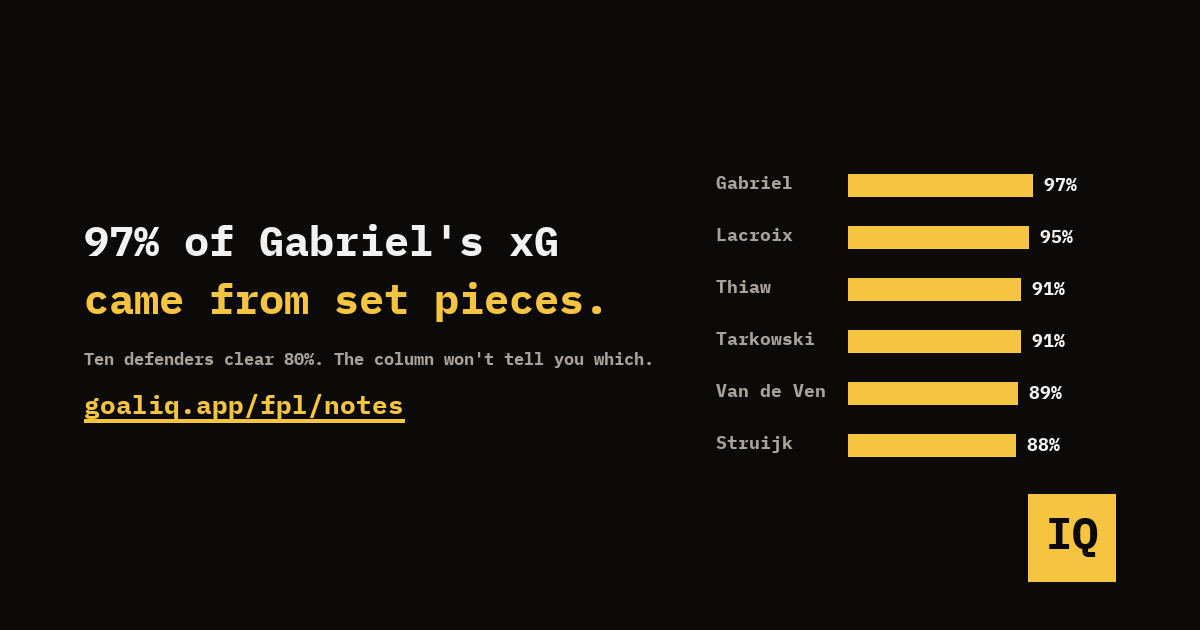
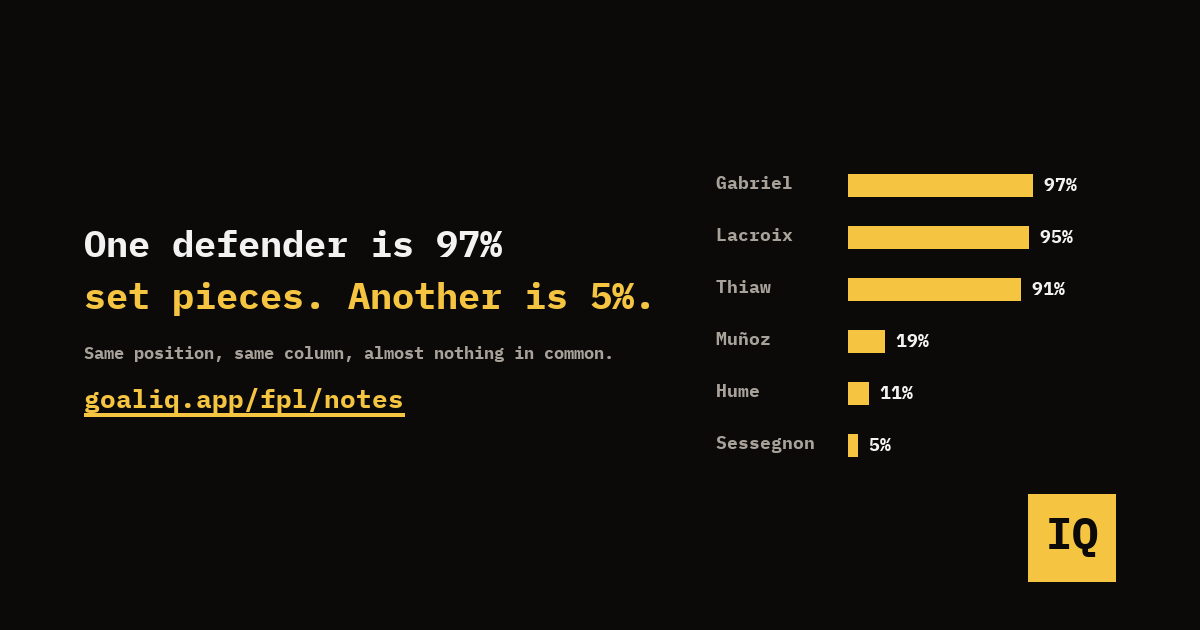
content(fpl): artikkeli uudelleen kehystetty hajonnan ympärille
Villen huomio: "eiko toi ole aika itsestaanselvyys etta topparin xG
muodostuu erikoistilanteista". Han oli oikeassa, ja mittasin sen:

  23 puolustajaa npxG >= 2.0
  yli 80 %:  10   50-80 %:  7   alle 50 %:  6
  matalimmat: Sessegnon 5 %, Hume 11 %, Munoz 19 %, O'Reilly 22 %

Ei-ilmeinen loydos ei siis ole etta erikoistilanteet dominoivat vaan ETTEI
SE OLE POSITION OMINAISUUS: liigan karkipuolustaja npxG:lla (O'Reilly 6.73)
saa siita vain 22 %. Vanha versio otsikoi ilmeisen ja hautasi taman yhteen
sivulauseeseen. Uusi kaantaa sen: kaksi taulukkoa, molemmat paat.

Kirjoitin ensin "with very little in between" ja tarkistin sen omasta
mittauksestani ennen porttia: seitseman 23:sta on valilla 50-80 %, joten
vaite oli liioittelu. Korjattu ennen julkaisua.

OG-kortti nayttaa nyt kolme ylinta JA kolme alinta. Ensimmainen versio
naytti kuusi ylinta (88-97 %) eli kuusi lahes identtista palkkia — se kertoi
tasan sen ilmeisen osan ja piilotti hajonnan.

fpl.html-takuulisays siirretty generaattoriin: sivu on GENEROITU ja
uudelleenajo pyyhki kasin tehdyn muutoksen. Oma takuuportti nappasi sen.

check_claim_route: 33 vaitetta, 0 puuttuvaa. Koko sarja 1216 lapi.

Claude-Session: https://claude.ai/code/session_01R3GBXnosnYnVuLUdwcsMFo

diff --git a/fpl/notes.html b/fpl/notes.html
@@ -4,11 +4,11 @@
 <meta charset="UTF-8" />
 <meta name="viewport" content="width=device-width, initial-scale=1.0" />
 <title>FPL notes from the model | GoalIQ</title>
-<meta name="description" content="Short gameweek notes where every number comes from our own match model and every one of them is on a free page you can open. Latest: Most centre-back xG is set-piece xG, and the column won&#x27;t tell you" />
+<meta name="description" content="Short gameweek notes where every number comes from our own match model and every one of them is on a free page you can open. Latest: Defender xG comes in two kinds, and the column doesn&#x27;t say which" />
 <link rel="canonical" href="https://goaliq.app/fpl/notes" />
 <meta property="og:type" content="article">
 <meta property="og:title" content="FPL notes from the model | GoalIQ">
-<meta property="og:description" content="Short gameweek notes where every number comes from our own match model and every one of them is on a free page you can open. Latest: Most centre-back xG is set-piece xG, and the column won&#x27;t tell you">
+<meta property="og:description" content="Short gameweek notes where every number comes from our own match model and every one of them is on a free page you can open. Latest: Defender xG comes in two kinds, and the column doesn&#x27;t say which">
 <meta property="og:url" content="https://goaliq.app/fpl/notes">
 <meta property="og:image" content="https://goaliq.app/assets/brand/og/notes-1200x630.png">
 <meta property="og:image:width" content="1200">
@@ -17,7 +17,7 @@
 <meta name="twitter:card" content="summary_large_image">
 <meta name="twitter:site" content="@goaliqapp">
 <meta name="twitter:title" content="FPL notes from the model | GoalIQ">
-<meta name="twitter:description" content="Short gameweek notes where every number comes from our own match model and every one of them is on a free page you can open. Latest: Most centre-back xG is set-piece xG, and the column won&#x27;t tell you">
+<meta name="twitter:description" content="Short gameweek notes where every number comes from our own match model and every one of them is on a free page you can open. Latest: Defender xG comes in two kinds, and the column doesn&#x27;t say which">
 <meta name="twitter:image" content="https://goaliq.app/assets/brand/og/notes-1200x630.png">
 <link rel="icon" href="/favicon.ico" sizes="any">
 <link rel="icon" type="image/png" sizes="32x32" href="/assets/brand/goaliq-favicon-32.png">
@@ -34,7 +34,7 @@
  "@type": "WebPage",
  "name": "FPL notes from the model | GoalIQ",
  "url": "https://goaliq.app/fpl/notes",
- "description": "Short gameweek notes where every number comes from our own match model and every one of them is on a free page you can open. Latest: Most centre-back xG is set-piece xG, and the column won't tell you",
+ "description": "Short gameweek notes where every number comes from our own match model and every one of them is on a free page you can open. Latest: Defender xG comes in two kinds, and the column doesn't say which",
  "isPartOf": {
   "@id": "https://goaliq.app/#organization"
  },
@@ -265,7 +265,7 @@ border-bottom:1px solid var(--line);padding-bottom:1px;}
 </div>
 </header>
 <main class="wrap content">
-<h2 id="set-piece-xg-is-not-open-play-xg">Most centre-back xG is set-piece xG, and the column won&#x27;t tell you</h2><p class="note">2026-08-15</p><div class="note-body"><p>Gabriel finished last season on 4.65 non-penalty xG. 4.50 of it came from set pieces. Ninety-seven percent, the highest share of anyone in the sample.</p><p>He&#x27;s not a quirk. Lacroix was at 95%, Thiaw at 91%, and ten players cleared 80%.</p><p>The rest of the league looks nothing like that. Across the 142 players with at least 2.0 non-penalty xG, the median set-piece share is 15%. Haaland sits at 10%, Mbeumo at 2%. There&#x27;s no gentle slope running from strikers down to defenders. Two different things are sharing a column heading.</p><p>Being a defender isn&#x27;t enough on its own, either. O&#x27;Reilly has the highest non-penalty xG of any defender in the sample, 6.73, and 22% of it is set pieces.</p><p>The clearest cases, with non-penalty xG and the set-piece part of it:</p><div class="tblwrap"><table class="note-tbl"><thead><tr><th>Player</th><th>npxG</th><th>Set-piece xG</th><th>Share</th></tr></thead><tbody><tr><td>Gabriel</td><td>4.65</td><td>4.50</td><td>97%</td></tr><tr><td>Lacroix</td><td>3.01</td><td>2.86</td><td>95%</td></tr><tr><td>Thiaw</td><td>5.90</td><td>5.38</td><td>91%</td></tr><tr><td>Tarkowski</td><td>2.87</td><td>2.61</td><td>91%</td></tr><tr><td>Van de Ven</td><td>2.45</td><td>2.17</td><td>89%</td></tr><tr><td>Struijk</td><td>2.97</td><td>2.62</td><td>88%</td></tr><tr><td>Collins</td><td>2.92</td><td>2.46</td><td>84%</td></tr><tr><td>Van Hecke</td><td>3.36</td><td>2.82</td><td>84%</td></tr><tr><td>Virgil</td><td>4.89</td><td>3.97</td><td>81%</td></tr><tr><td>Van den Berg</td><td>3.33</td><td>2.70</td><td>81%</td></tr></tbody></table></div><h3>Why it matters</h3><p>xG gets treated as one currency. You compare two players, the higher number wins, and for most of the league that&#x27;s fine, because both numbers are made of the same stuff.</p><p>For the defenders above the number comes from somewhere else. It depends on how many set pieces the team wins and on who is delivering them. Neither of those moves with the things that normally move a team&#x27;s attack.</p><p>Take a club that sells its main striker. Open-play creation drops and the rating should drop with it. But the number of set pieces barely changes, and the centre-back who scores off them keeps scoring as long as the delivery is still there.</p><h3>How I&#x27;d use it</h3><p>If you&#x27;re comparing two defenders on xG, look at what the xG is made of before you trust the gap. A 3.0 that&#x27;s 90% set pieces and a 3.0 that&#x27;s 30% set pieces are different bets, and the second one is closer to a normal attacking return.</p><p>And if a club changes who takes its corners, that&#x27;s the transfer that should worry you about a set-piece defender, more than the striker leaving. The same view on the stats page lists the corner and free-kick taker order, so you can check who is on them now. I don&#x27;t have a clean number for how much delivery quality matters, and I&#x27;d rather say that than invent one.</p><h3>What this doesn&#x27;t show</h3><p>The shot data is 2025/26, not the season about to start. Some of the shares sit on thin samples: Van de Ven&#x27;s 89% comes off 2.45 npxG, which is about two goals&#x27; worth of chances, and I wouldn&#x27;t lean on it the way I&#x27;d lean on Gabriel&#x27;s 4.65.</p><p>Set-piece xG isn&#x27;t immune to squad change either, it just doesn&#x27;t respond to the same inputs. A manager who stops loading the box would flatten these numbers quickly.</p><p>Set piece here means corners and free kicks, not corners alone. The column doesn&#x27;t split them, so I&#x27;m not going to guess at the split either.</p><p>And none of it says whether a player is good. Gabriel at 97% is one of the better attacking defenders in the league, and set-piece goals count the same as any other. The problem is that they run on a different engine, so anything that treats the two as one number will be wrong in a direction you can predict.</p><p>Both columns are on our free stats page, no sign-in, but they sit in different views. Easiest route: type the name into &quot;Search player&quot;, then switch between &quot;Goal threat&quot; for npxG and &quot;Set pieces&quot; for Set-piece xG. If you want to sort the whole list instead, press &quot;Show all players&quot; first, because the table opens on the top 100 and four of the names above sit outside it on npxG. Basis is 2025/26, 400 players in this season&#x27;s FPL squads.</p></div><p><a href="https://goaliq.app/fpl/stats">Open the stats page and check any of these</a>.</p><div class="share"><span>Share</span><a href="https://twitter.com/intent/tweet?text=Most%20centre-back%20xG%20is%20set-piece%20xG%2C%20and%20the%20column%20won%27t%20tell%20you%0A%0Ahttps%3A//goaliq.app/fpl/notes%23set-piece-xg-is-not-open-play-xg" rel="noopener nofollow" target="_blank">X</a><a href="https://bsky.app/intent/compose?text=Most%20centre-back%20xG%20is%20set-piece%20xG%2C%20and%20the%20column%20won%27t%20tell%20you%0A%0Ahttps%3A//goaliq.app/fpl/notes%23set-piece-xg-is-not-open-play-xg" rel="noopener nofollow" target="_blank">Bluesky</a><a href="https://goaliq.app/fpl/notes#set-piece-xg-is-not-open-play-xg">Link</a></div><h2 id="gw1-team-news-75-percent-flag">GW1 team news: a 75% flag is not a sell signal</h2><p class="note">2026-08-15</p><div class="note-body"><p>61 players are ruled out for the GW1 deadline and 15 are doubtful. Only two of the doubtful are owned by more than 1%, so most of that list isn&#x27;t your problem.</p><p>Mukiele is the one I&#x27;d look at. FPL has him 75% to play, 4.3% own him, and he&#x27;s still the best six-gameweek projection on the entire doubtful list at 17.0, with the 75% already taken out of the number. The flag costs him less than the panic around it does.</p><p>Šeško is the other one over 1%. Same 75%, 2.1% owned, 11.3.</p><p>Kroupi is the most owned player who can&#x27;t play at all, and Bournemouth&#x27;s cover for him is Tavernier on 26.1. I&#x27;d move him and stop reading about it.</p></div><p><a href="https://goaliq.app/fpl/team-news">Full list, free, no sign-in</a>.</p><div class="share"><span>Share</span><a href="https://twitter.com/intent/tweet?text=GW1%20team%20news%3A%20a%2075%25%20flag%20is%20not%20a%20sell%20signal%0A%0Ahttps%3A//goaliq.app/fpl/notes%23gw1-team-news-75-percent-flag" rel="noopener nofollow" target="_blank">X</a><a href="https://bsky.app/intent/compose?text=GW1%20team%20news%3A%20a%2075%25%20flag%20is%20not%20a%20sell%20signal%0A%0Ahttps%3A//goaliq.app/fpl/notes%23gw1-team-news-75-percent-flag" rel="noopener nofollow" target="_blank">Bluesky</a><a href="https://goaliq.app/fpl/notes#gw1-team-news-75-percent-flag">Link</a></div><div class="rec">Powered by the GoalIQ match model with a published, pre-match-logged track record. The full toolkit (captain ranker, all differentials, transfer planner) is <a href="https://pro.goaliq.app/?tab=premium">GoalIQ Premium</a>: 3.99 €/month or 25 €/season. One subscription on web, iOS and Android.</div><div class="cta-row"><a class="btn" href="https://pro.goaliq.app/?tab=premium">Open GoalIQ Premium</a><a class="btn ghost" href="/fpl.html">Free clean-sheet probability &amp; FDR</a></div><p class="note">Updated 15 Aug 2026 · GoalIQ model predictions are statistical estimates for fun and analysis, not betting advice, and not a gambling service.</p>
+<h2 id="set-piece-xg-is-not-open-play-xg">Defender xG comes in two kinds, and the column doesn&#x27;t say which</h2><p class="note">2026-08-15</p><div class="note-body"><p>Everyone knows a centre-back&#x27;s goals come from corners. That part isn&#x27;t interesting. What surprised me is how badly it works as a rule.</p><p>Gabriel finished last season on 4.65 non-penalty xG and 4.50 of it was set pieces. Ninety-seven percent. Sessegnon finished on 2.05 with 0.11 from set pieces. Five percent. Same position, same column, almost nothing in common.</p><p>Take the 23 defenders with at least 2.0 non-penalty xG. Ten are above 80% set pieces, six are below 50%, and the other seven are scattered across the middle. There&#x27;s no typical number to fall back on, which is the problem: the column gives you one figure and it can mean either thing.</p><p>The best attacking defender in the sample is in the wrong group for the stereotype. O&#x27;Reilly has the highest non-penalty xG of any defender, 6.73, and only 22% of it comes from set pieces.</p><h3>The set-piece end</h3><div class="tblwrap"><table class="note-tbl"><thead><tr><th>Player</th><th>npxG</th><th>Set-piece xG</th><th>Share</th></tr></thead><tbody><tr><td>Gabriel</td><td>4.65</td><td>4.50</td><td>97%</td></tr><tr><td>Lacroix</td><td>3.01</td><td>2.86</td><td>95%</td></tr><tr><td>Thiaw</td><td>5.90</td><td>5.38</td><td>91%</td></tr><tr><td>Tarkowski</td><td>2.87</td><td>2.61</td><td>91%</td></tr><tr><td>Van de Ven</td><td>2.45</td><td>2.17</td><td>89%</td></tr><tr><td>Struijk</td><td>2.97</td><td>2.62</td><td>88%</td></tr></tbody></table></div><h3>The open-play end</h3><div class="tblwrap"><table class="note-tbl"><thead><tr><th>Player</th><th>npxG</th><th>Set-piece xG</th><th>Share</th></tr></thead><tbody><tr><td>Dalot</td><td>2.19</td><td>0.87</td><td>40%</td></tr><tr><td>O&#x27;Reilly</td><td>6.73</td><td>1.45</td><td>22%</td></tr><tr><td>Muñoz</td><td>3.15</td><td>0.61</td><td>19%</td></tr><tr><td>Hume</td><td>2.71</td><td>0.31</td><td>11%</td></tr><tr><td>Sessegnon</td><td>2.05</td><td>0.11</td><td>5%</td></tr></tbody></table></div><h3>Why it matters</h3><p>xG gets treated as one currency. You compare two players, the higher number wins, and for most of the league that&#x27;s fine, because both numbers are made of the same stuff.</p><p>For the defenders at the top of that first table the number comes from somewhere else. It depends on how many set pieces the team wins and on who is delivering them. Neither of those moves with the things that normally move a team&#x27;s attack.</p><p>Take a club that sells its main striker. Open-play creation drops and the rating should drop with it. But the number of set pieces barely changes, and the centre-back who scores off them keeps scoring as long as the delivery is still there.</p><h3>How I&#x27;d use it</h3><p>If you&#x27;re comparing two defenders on xG, look at what the xG is made of before you trust the gap. A 3.0 that&#x27;s 90% set pieces and a 3.0 that&#x27;s 30% set pieces are different bets, and the second one is closer to a normal attacking return.</p><p>And if a club changes who takes its corners, that&#x27;s the transfer that should worry you about a set-piece defender, more than the striker leaving. The same view on the stats page lists the corner and free-kick taker order, so you can check who is on them now. I don&#x27;t have a clean number for how much delivery quality matters, and I&#x27;d rather say that than invent one.</p><h3>What this doesn&#x27;t show</h3><p>The shot data is 2025/26, not the season about to start. Some of the shares sit on thin samples: Van de Ven&#x27;s 89% comes off 2.45 npxG, which is about two goals&#x27; worth of chances, and I wouldn&#x27;t lean on it the way I&#x27;d lean on Gabriel&#x27;s 4.65.</p><p>Set-piece xG isn&#x27;t immune to squad change either, it just doesn&#x27;t respond to the same inputs. A manager who stops loading the box would flatten these numbers quickly.</p><p>Set piece here means corners and free kicks, not corners alone. The column doesn&#x27;t split them, so I&#x27;m not going to guess at the split either.</p><p>And none of it says whether a player is good. Gabriel at 97% is one of the better attacking defenders in the league, and set-piece goals count the same as any other. The problem is that they run on a different engine, so anything that treats the two as one number will be wrong in a direction you can predict.</p><p>Both columns are on our free stats page, no sign-in, but they sit in different views. Easiest route: type the name into &quot;Search player&quot;, then switch between &quot;Goal threat&quot; for npxG and &quot;Set pieces&quot; for Set-piece xG. If you want to sort the whole list instead, press &quot;Show all players&quot; first, because the table opens on the top 100 and several of the names above sit outside it on npxG. Basis is 2025/26, 400 players in this season&#x27;s FPL squads.</p><p>goaliq.app/fpl/stats</p></div><p><a href="https://goaliq.app/fpl/stats">Open the stats page and check any of these</a>.</p><div class="share"><span>Share</span><a href="https://twitter.com/intent/tweet?text=Defender%20xG%20comes%20in%20two%20kinds%2C%20and%20the%20column%20doesn%27t%20say%20which%0A%0Ahttps%3A//goaliq.app/fpl/notes%23set-piece-xg-is-not-open-play-xg" rel="noopener nofollow" target="_blank">X</a><a href="https://bsky.app/intent/compose?text=Defender%20xG%20comes%20in%20two%20kinds%2C%20and%20the%20column%20doesn%27t%20say%20which%0A%0Ahttps%3A//goaliq.app/fpl/notes%23set-piece-xg-is-not-open-play-xg" rel="noopener nofollow" target="_blank">Bluesky</a><a href="https://goaliq.app/fpl/notes#set-piece-xg-is-not-open-play-xg">Link</a></div><h2 id="gw1-team-news-75-percent-flag">GW1 team news: a 75% flag is not a sell signal</h2><p class="note">2026-08-15</p><div class="note-body"><p>61 players are ruled out for the GW1 deadline and 15 are doubtful. Only two of the doubtful are owned by more than 1%, so most of that list isn&#x27;t your problem.</p><p>Mukiele is the one I&#x27;d look at. FPL has him 75% to play, 4.3% own him, and he&#x27;s still the best six-gameweek projection on the entire doubtful list at 17.0, with the 75% already taken out of the number. The flag costs him less than the panic around it does.</p><p>Šeško is the other one over 1%. Same 75%, 2.1% owned, 11.3.</p><p>Kroupi is the most owned player who can&#x27;t play at all, and Bournemouth&#x27;s cover for him is Tavernier on 26.1. I&#x27;d move him and stop reading about it.</p></div><p><a href="https://goaliq.app/fpl/team-news">Full list, free, no sign-in</a>.</p><div class="share"><span>Share</span><a href="https://twitter.com/intent/tweet?text=GW1%20team%20news%3A%20a%2075%25%20flag%20is%20not%20a%20sell%20signal%0A%0Ahttps%3A//goaliq.app/fpl/notes%23gw1-team-news-75-percent-flag" rel="noopener nofollow" target="_blank">X</a><a href="https://bsky.app/intent/compose?text=GW1%20team%20news%3A%20a%2075%25%20flag%20is%20not%20a%20sell%20signal%0A%0Ahttps%3A//goaliq.app/fpl/notes%23gw1-team-news-75-percent-flag" rel="noopener nofollow" target="_blank">Bluesky</a><a href="https://goaliq.app/fpl/notes#gw1-team-news-75-percent-flag">Link</a></div><div class="rec">Powered by the GoalIQ match model with a published, pre-match-logged track record. The full toolkit (captain ranker, all differentials, transfer planner) is <a href="https://pro.goaliq.app/?tab=premium">GoalIQ Premium</a>: 3.99 €/month or 25 €/season. One subscription on web, iOS and Android.</div><div class="cta-row"><a class="btn" href="https://pro.goaliq.app/?tab=premium">Open GoalIQ Premium</a><a class="btn ghost" href="/fpl.html">Free clean-sheet probability &amp; FDR</a></div><p class="note">Updated 15 Aug 2026 · GoalIQ model predictions are statistical estimates for fun and analysis, not betting advice, and not a gambling service.</p>
 <nav class="toolnav" aria-label="More free FPL tools"><span class="navgrp"><b>Picks</b><a href="/fpl/best-captain">Captain picks</a><a href="/fpl/model-xi">Model XI</a><a href="/fpl/differentials">Differentials</a><a href="/fpl/expected-points">Expected points</a></span><span class="navgrp"><b>Teams</b><a href="/fpl/club-best">Best per club</a><a href="/fpl/defence">Defence profiles</a><a href="/fpl/team-news">Team news</a></span><span class="navgrp"><b>Numbers</b><a href="/fpl/stats">Player stats</a><a href="/fpl/xg-leaders">xG leaders</a><a href="/fpl/defcon">DefCon leaders</a><a href="/fpl/price-changes">Price changes</a></span></nav>
 <footer>© 2026 GoalIQ · <a href="/predictions">Football predictions</a> · <a href="/fpl.html">Free FPL tools</a> · <a href="/privacy.html">Privacy</a><br>GoalIQ model predictions are statistical estimates for fun and analysis, not betting advice, and not a gambling service.</footer>
 </main>

diff --git a/index.html b/index.html
@@ -750,7 +750,7 @@ line-height:1.25;margin-bottom:10px}
 .note-lede{display:block;font-size:.95rem;line-height:1.55;color:var(--muted)}
 .note-more{margin:2px 0 0;font-size:.85rem;letter-spacing:.04em;
 text-transform:uppercase}
-</style><div class="note-list"><a class="note-card" href="/fpl/notes#set-piece-xg-is-not-open-play-xg"><span class="note-date">2026-08-15</span><span class="note-title">Most centre-back xG is set-piece xG, and the column won&#x27;t tell you</span><span class="note-lede">Gabriel finished last season on 4.65 non-penalty xG. 4.50 of it came from set pieces. Ninety-seven percent, the highest share of anyone in the sample.</span></a></div><p class="note-more"><a href="/fpl/notes">All notes from the model &#9656;</a></p><!-- GEN:LATEST-ARTICLES-END -->
+</style><div class="note-list"><a class="note-card" href="/fpl/notes#set-piece-xg-is-not-open-play-xg"><span class="note-date">2026-08-15</span><span class="note-title">Defender xG comes in two kinds, and the column doesn&#x27;t say which</span><span class="note-lede">Everyone knows a centre-back&#x27;s goals come from corners. That part isn&#x27;t interesting. What surprised me is how badly it works as a rule.</span></a></div><p class="note-more"><a href="/fpl/notes">All notes from the model &#9656;</a></p><!-- GEN:LATEST-ARTICLES-END -->
     </div>
   </header>
 </div>

diff --git a/scripts/build_fpl_page.py b/scripts/build_fpl_page.py
@@ -1638,7 +1638,7 @@ the top three of every leaderboard are free.</p>
   <a class="cta" href="{PRO_CHECKOUT_SEASON_URL}" data-cta="fpl">Start Premium, &euro;25 a year</a>
 </div>
 <p class="price-note">€25 a year, which is under €2.10 a month, or €3.99 a month.
-One subscription covers web, iOS and Android. Cancel anytime.</p>
+One subscription covers web, iOS and Android. Cancel anytime. 30-day money back on web purchases.</p>
 </aside>
 
 <!-- Career card discoverability. This is a free distribution tool, so the teal
